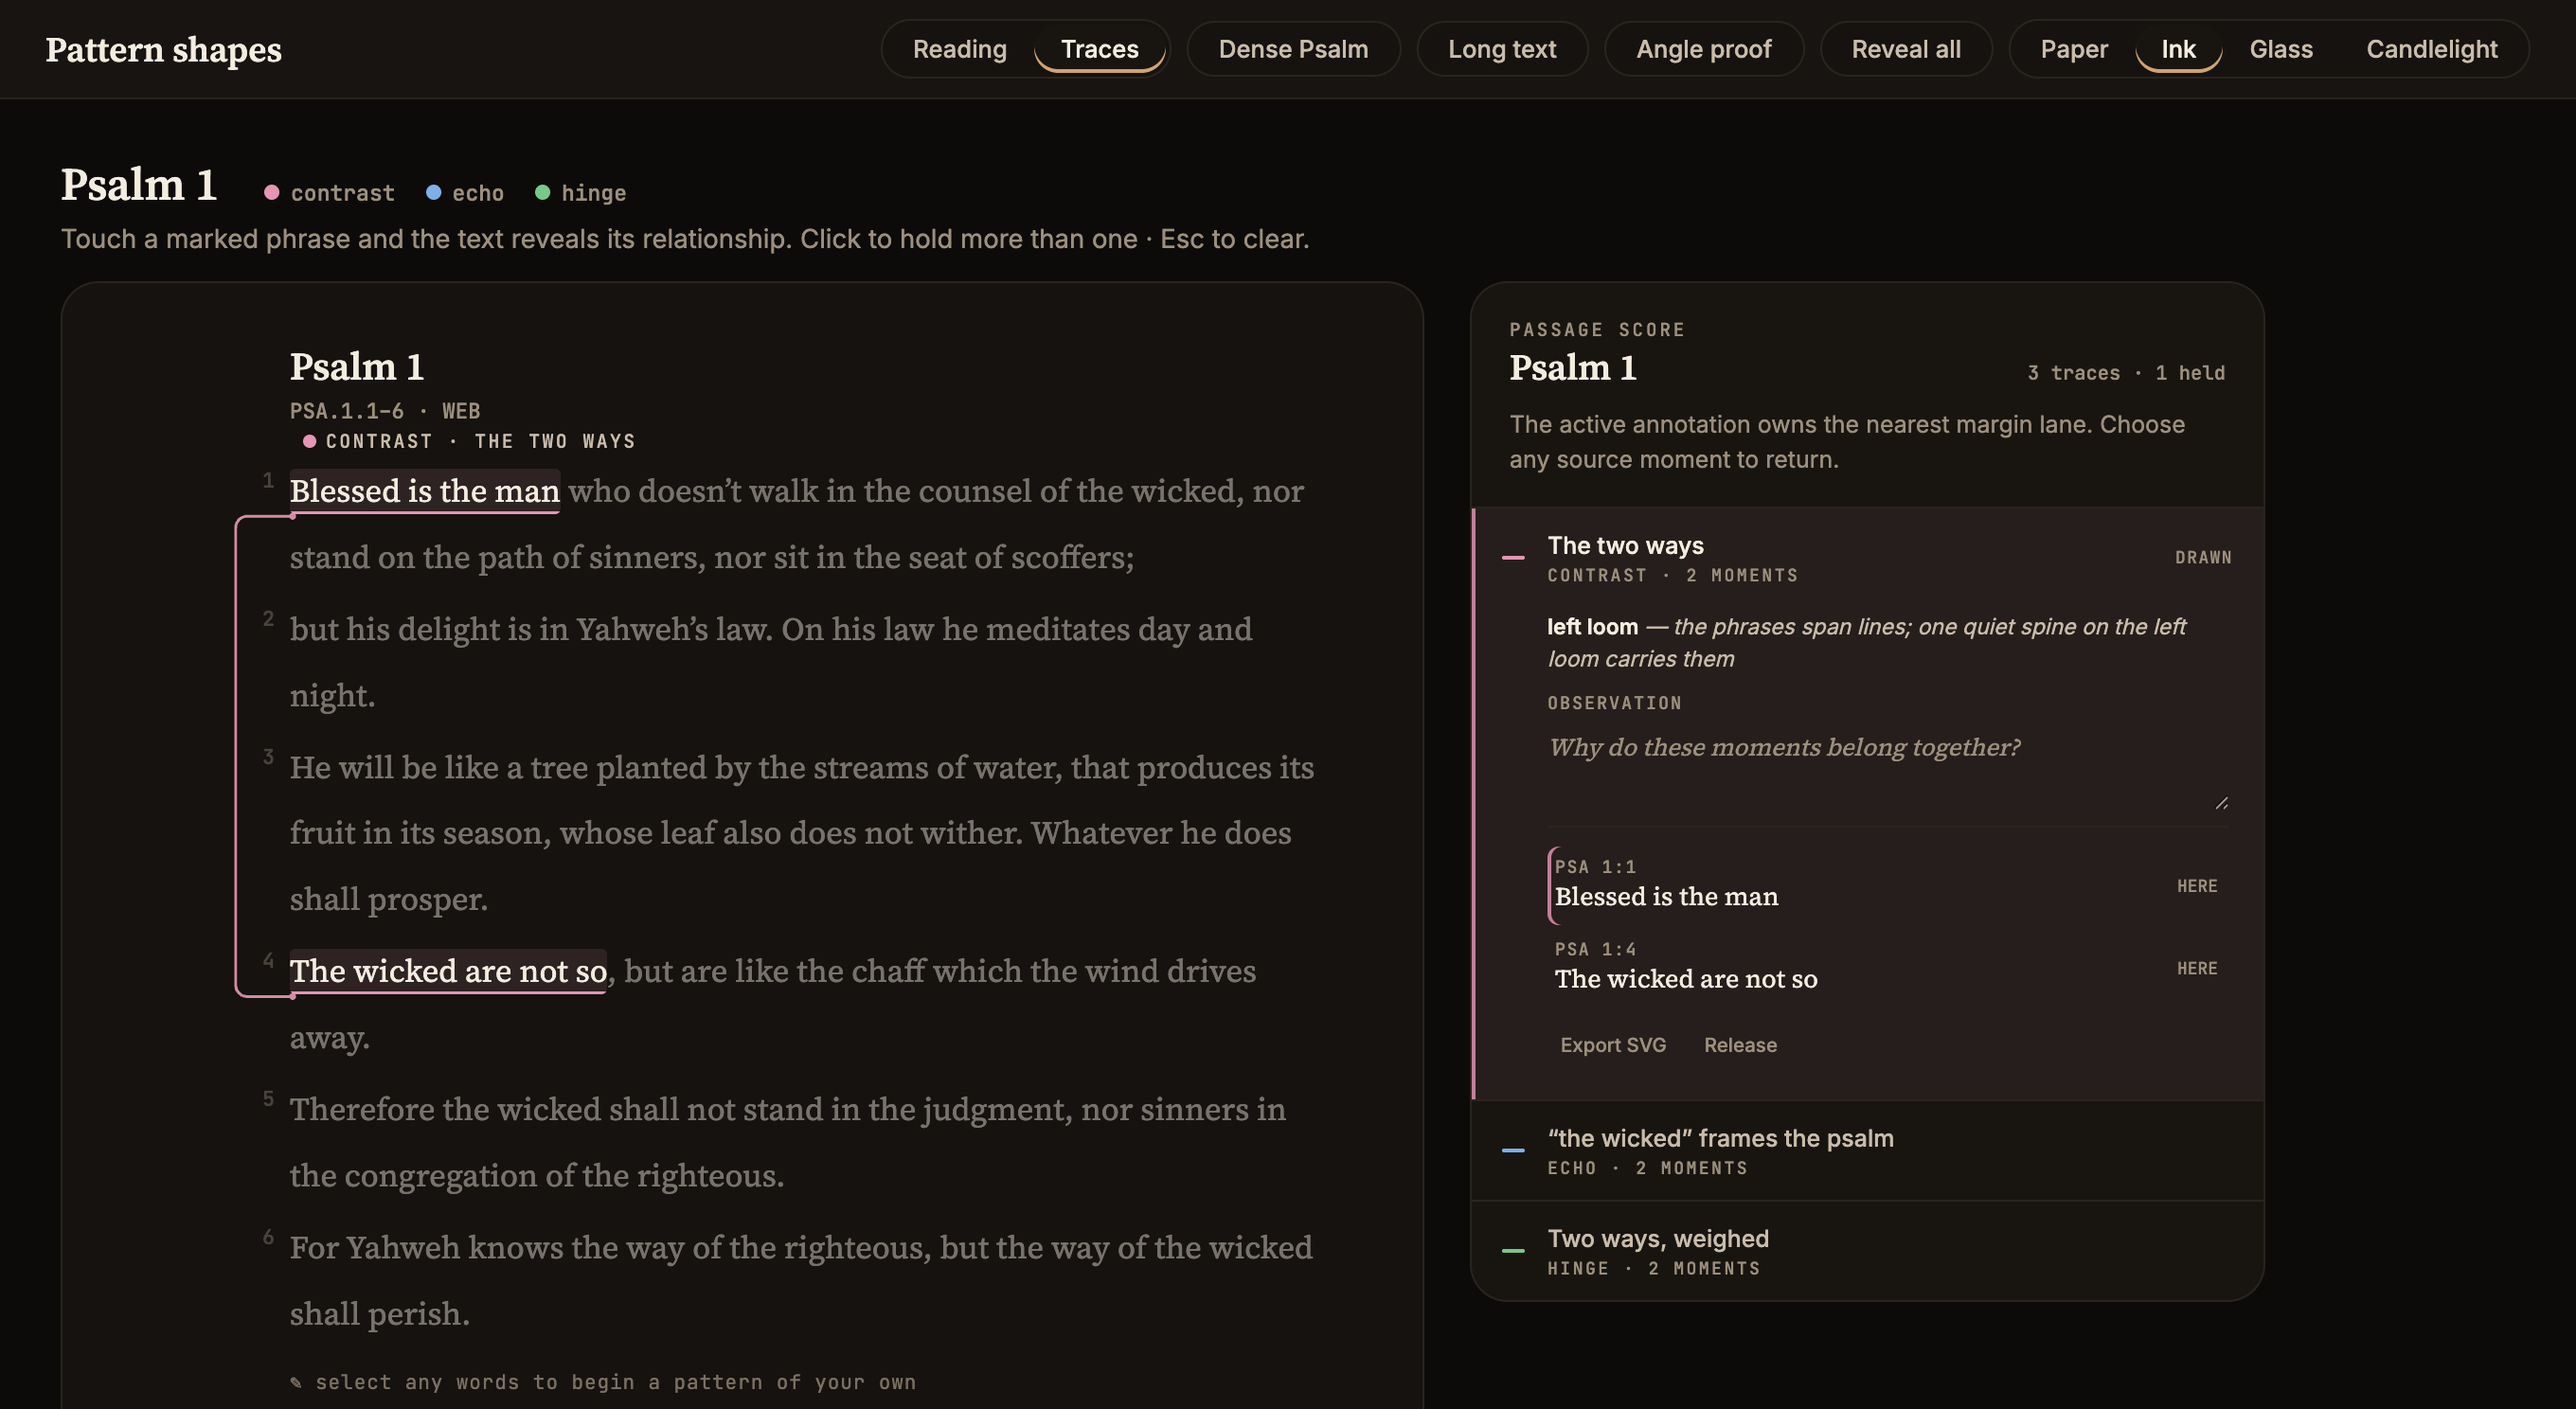
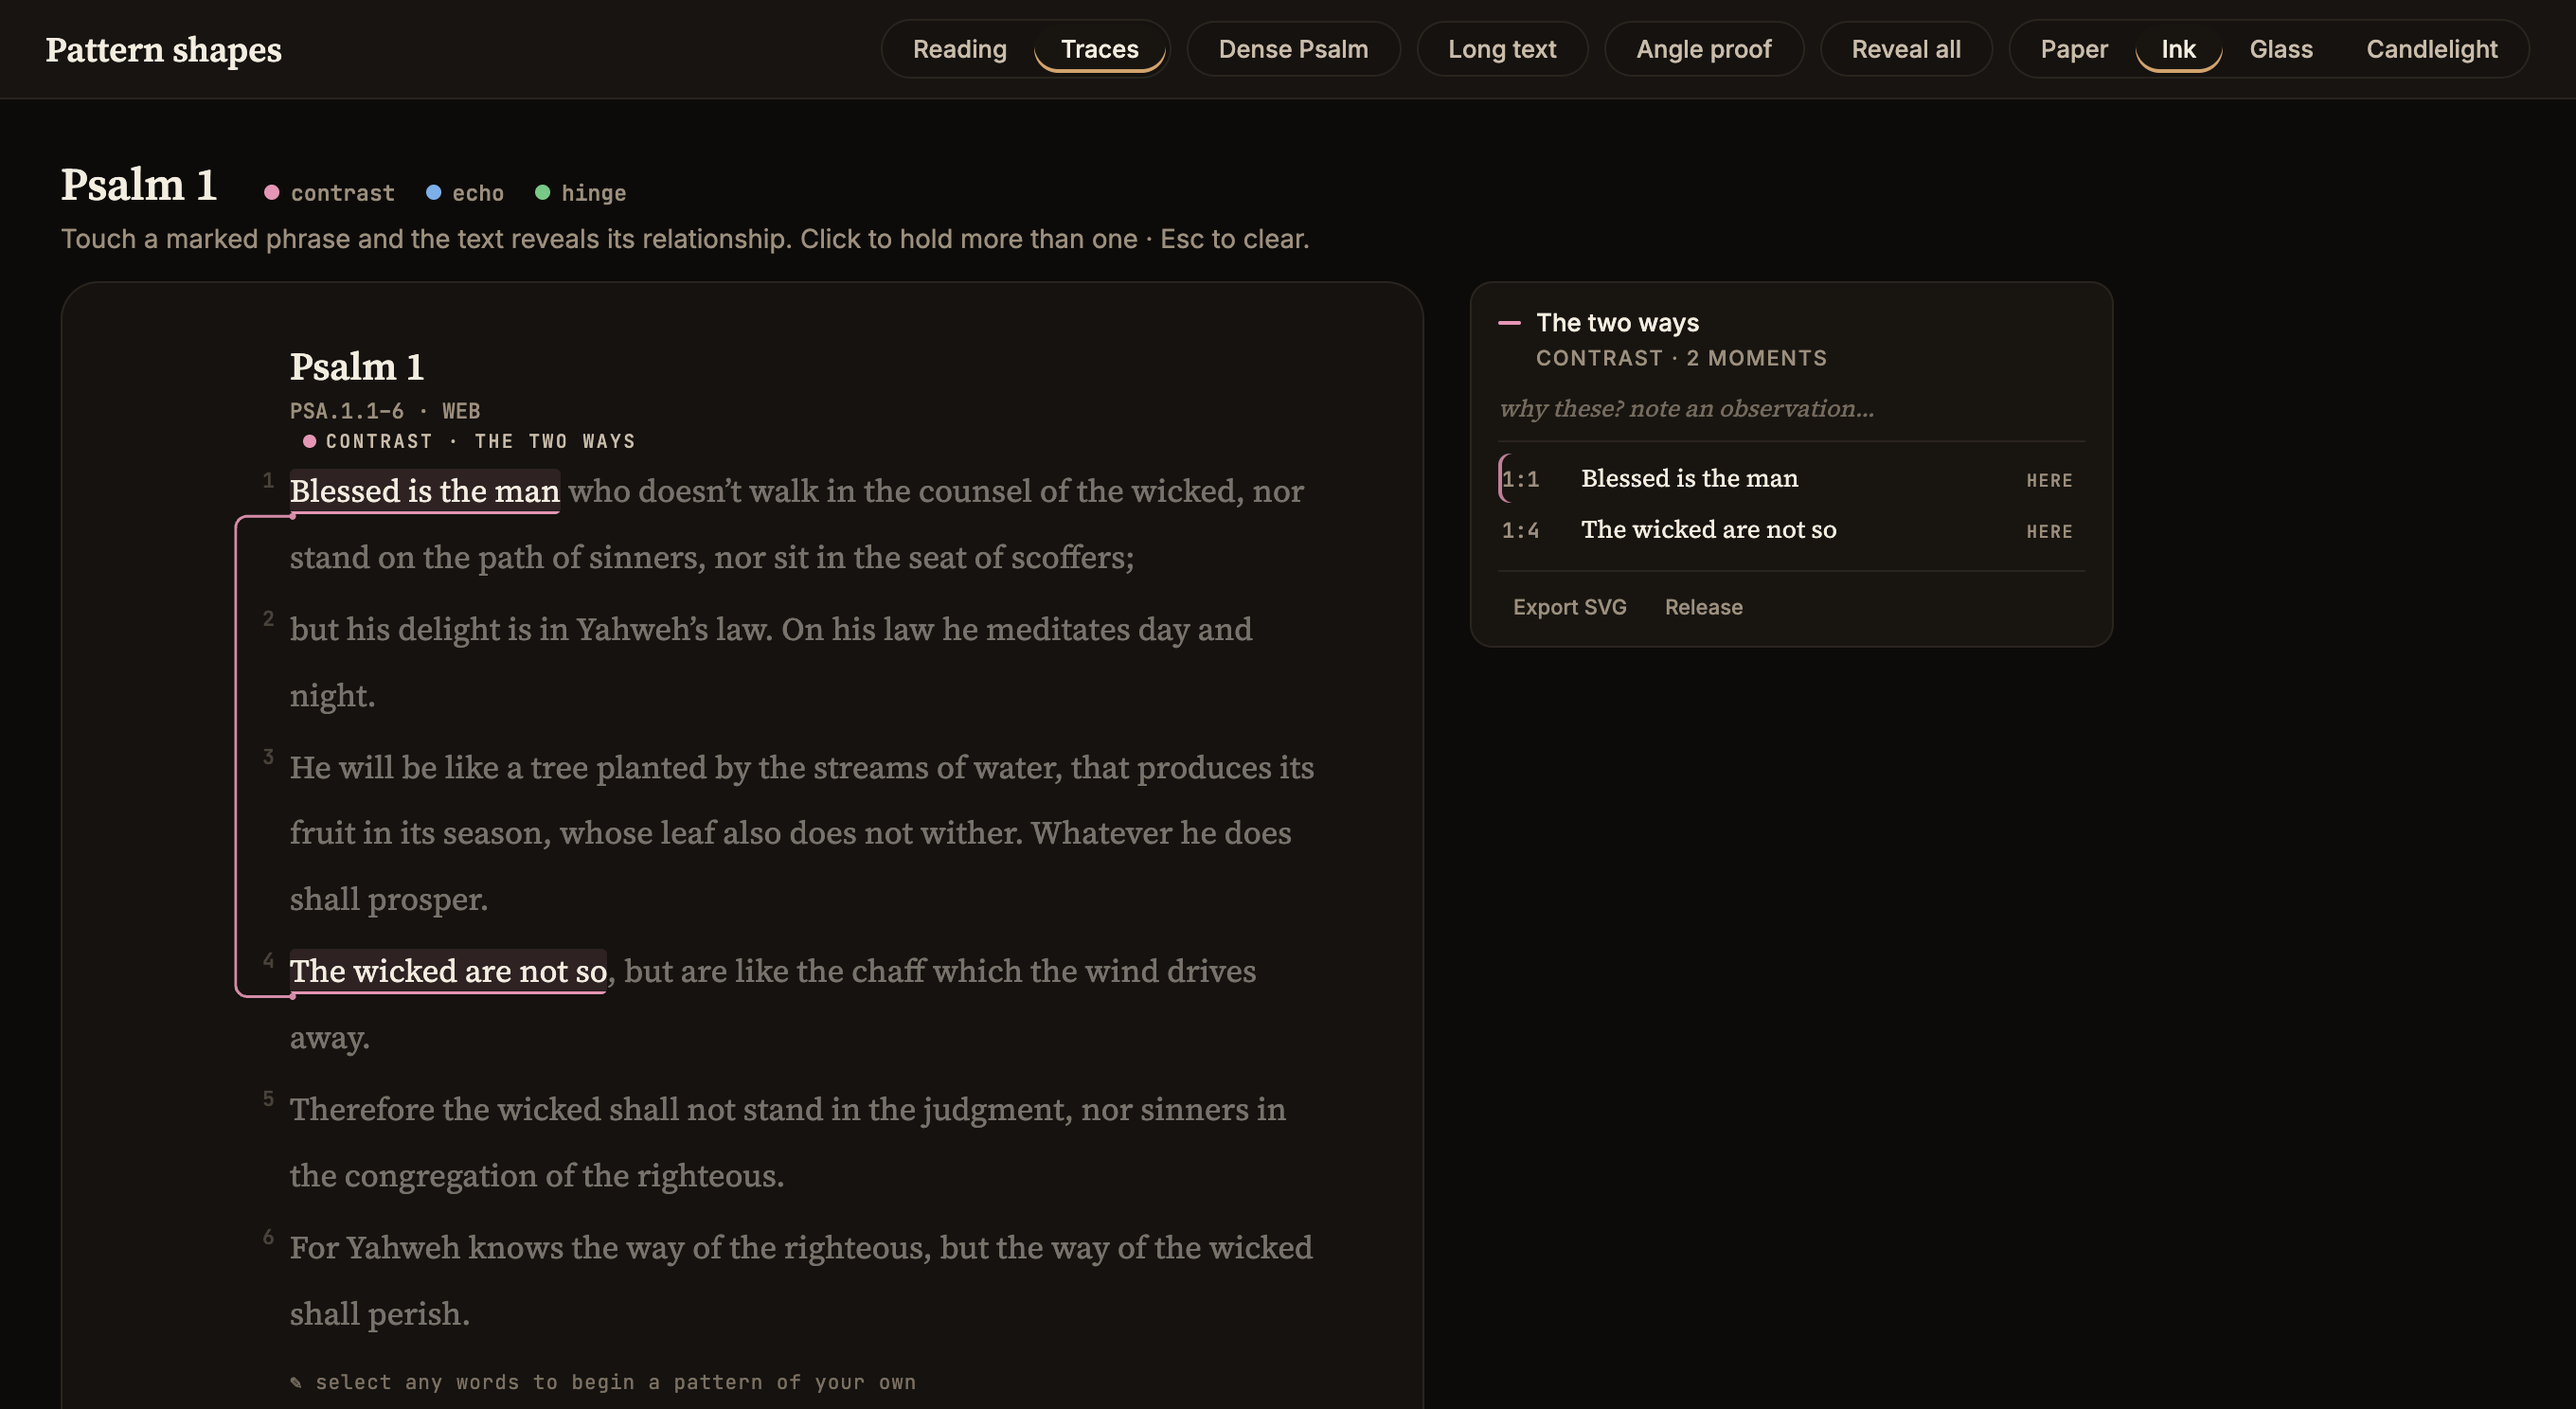
shapes: the card is active-connection only — not an index

Changed region(s): [[0.5625, 0.2164, 0.9062, 0.8347], [0.5938, 0.8656, 0.6875, 0.9274]]

diff --git a/shapes/index.html b/shapes/index.html
@@ -143,21 +143,21 @@
 
     <section>
       <h2>The card</h2>
-      <p class="sub">The passage score lists every relationship as one quiet row — a kind-hue
-      tick, the title, its moments, its state. Expanding a row gives the observation and the
-      exact source path; every phrase is a way back into the text. Highlights close the index.</p>
+      <p class="sub">One card, and only when a connection is held: the relationship you clicked,
+      its observation, and its moments — each row a way back into the text. Nothing to browse,
+      nothing standing; release it and the margin is just a margin again.</p>
       <figure class="shot">
-        <img src="assets/card.png" alt="The passage score card for Psalm 1: 'The two ways', contrast, two moments, drawn — expanded to show the route explanation, the observation field, and two source rows (PSA 1:1 'Blessed is the man', PSA 1:4 'The wicked are not so') with Export SVG and Release actions." width="1104" height="1078" style="max-width: 560px; margin: 0 auto;">
+        <img src="assets/card.png" alt="The active-connection card: a kind-hue tick beside 'The two ways', the line 'contrast, 2 moments', an observation placeholder, two moment rows (1:1 'Blessed is the man', 1:4 'The wicked are not so') each marked HERE, and quiet Export SVG and Release actions." width="728" height="458" style="max-width: 420px; margin: 0 auto;">
       </figure>
     </section>
 
     <section>
       <h2>On the page</h2>
       <p class="sub">The whole system at reading scale — the held contrast in Psalm 1 draws one
-      bracket down the left margin while the card carries the reading. The same surface in Paper
-      and Ink.</p>
+      bracket down the left margin while its card waits quietly at the right. The same surface
+      in Paper and Ink.</p>
       <figure class="shot" style="margin-bottom: 18px;">
-        <img src="assets/traces-paper.png" alt="Psalm 1 in the Paper atmosphere: a rose bracket connects 'Blessed is the man' to 'The wicked are not so' down the left margin; the passage score sits at right." width="2720" height="1840">
+        <img src="assets/traces-paper.png" alt="Psalm 1 in the Paper atmosphere: a rose bracket connects 'Blessed is the man' to 'The wicked are not so' down the left margin; the held connection's card sits at right." width="2720" height="1840">
       </figure>
       <figure class="shot">
         <img src="assets/traces-ink.png" alt="The same held relationship in the Ink atmosphere: dark page, the bracket and card in the same quiet language." width="2720" height="1840">
